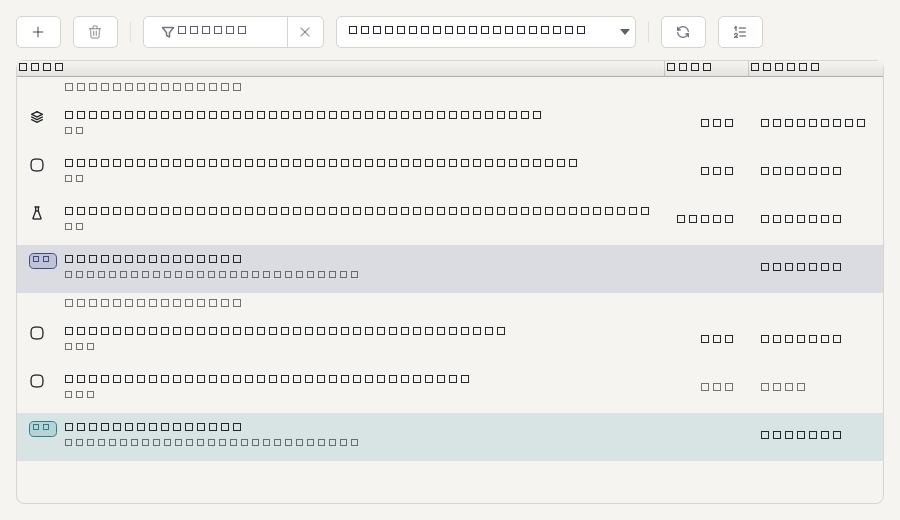
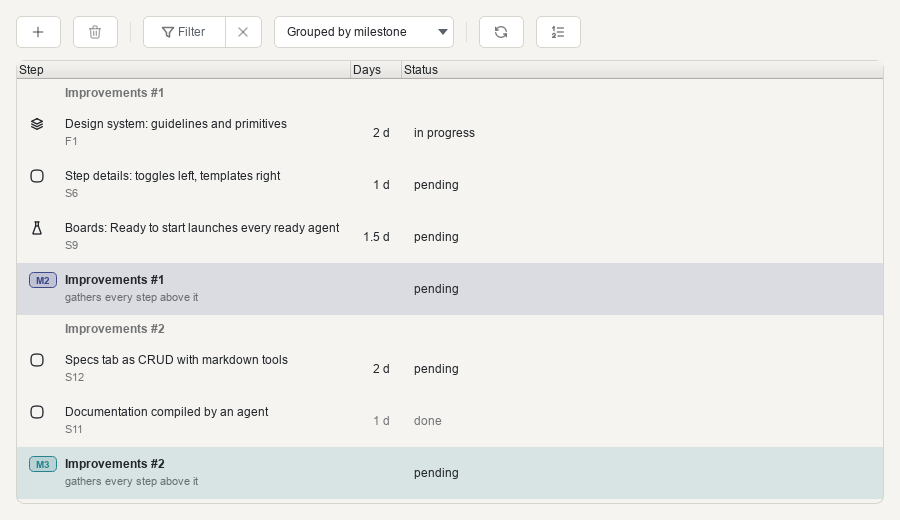
S17: an unreachable vault reads as no secret, and the Windows screenshots have fonts
Two things the frozen build found on Windows.

`dplanner checklist show` crashed from an SSH session: keyring's Credential
Manager backend lets an OSError through — a network logon has no credential
vault, and CredRead answers WinError 1312 "a specified logon session does not
exist" — while core/secrets.py caught only KeyringError. The checklist is the
surface whose job is to report a keychain that cannot be reached, and it died
reporting it. OSError joins KeyringError as "unavailable" in all three calls,
with a test that fakes the backend.

The first seventy-eight screenshots rendered on Windows were every glyph a tofu
box, with the layout, tones and icons all correct around them: Qt's offscreen
platform there loads no system fonts by itself. QT_QPA_FONTDIR=C:\Windows\Fonts
in both transports, and the six kept under docs/screenshots/s17-windows/on-windows
are re-rendered with it — real Windows text, the checklist and the design table
as the design system draws them.

Claude-Session: https://claude.ai/code/session_01GJhttG8r8Gza4YegQ22gom

diff --git a/src/dplanner/core/secrets.py b/src/dplanner/core/secrets.py
@@ -38,20 +38,29 @@ def _username(module_id: str, key: str) -> str:
     return f"{module_id}.{key}"
 
 
+# What a backend raises when the vault is not there for *this* session. keyring wraps most
+# of its failures in KeyringError, but the Windows Credential Manager backend lets the
+# OSError through: a network logon — an SSH session, a service — has no credential vault,
+# and CredRead answers WinError 1312 "a specified logon session does not exist". The
+# checklist's job is to report a keychain that cannot be reached, and it crashed reporting
+# it on the first Windows run. An unreachable vault reads as no secret, and nothing kept.
+_UNAVAILABLE = (keyring.errors.KeyringError, OSError)
+
+
 def get_secret(module_id: str, key: str) -> str | None:
     try:
         return keyring.get_password(_SERVICE, _username(module_id, key))
-    except keyring.errors.KeyringError:
+    except _UNAVAILABLE:
         return None
 
 
 def set_secret(module_id: str, key: str, value: str) -> None:
-    with contextlib.suppress(keyring.errors.KeyringError):
+    with contextlib.suppress(*_UNAVAILABLE):
         keyring.set_password(_SERVICE, _username(module_id, key), value)
 
 
 def delete_secret(module_id: str, key: str) -> None:
-    with contextlib.suppress(keyring.errors.KeyringError):
+    with contextlib.suppress(*_UNAVAILABLE):
         keyring.delete_password(_SERVICE, _username(module_id, key))
 
 

diff --git a/tests/core/test_secrets.py b/tests/core/test_secrets.py
@@ -39,3 +39,23 @@ def test_a_backend_that_cannot_even_be_asked_is_a_problem(monkeypatch):
     monkeypatch.setattr(keyring, "get_keyring", boom)
     problem = secrets.backend_problem()
     assert problem is not None and "RuntimeError" in problem
+
+
+def test_a_vault_this_session_cannot_reach_reads_as_no_secret(monkeypatch):
+    """The Windows Credential Manager backend raises OSError, not KeyringError, when the
+    logon session has no vault — a network logon such as SSH, WinError 1312. Every
+    surface that asks for a secret has to get "none" rather than a traceback, because the
+    checklist is the surface that reports exactly this."""
+    import keyring
+
+    from dplanner.core import secrets
+
+    def no_vault(*_args, **_kwargs):
+        raise OSError(1312, "A specified logon session does not exist")
+
+    monkeypatch.setattr(keyring, "get_password", no_vault)
+    monkeypatch.setattr(keyring, "set_password", no_vault)
+    monkeypatch.setattr(keyring, "delete_password", no_vault)
+    assert secrets.get_secret("llm", "openai") is None
+    secrets.set_secret("llm", "openai", "sk-x")  # Kept nowhere, and says nothing.
+    secrets.delete_secret("llm", "openai")

diff --git a/scripts/windows_check.py b/scripts/windows_check.py
@@ -57,6 +57,10 @@ $ProgressPreference = 'SilentlyContinue'
 [Console]::OutputEncoding = [Text.UTF8Encoding]::new()
 $env:PYTHONUTF8 = '1'; $env:PYTHONIOENCODING = 'utf-8'
 $env:QT_QPA_PLATFORM = 'offscreen'
+# The offscreen platform on Windows loads no system fonts by itself: every glyph in the
+# first seventy-eight screenshots was a tofu box, with the layout, the tones and the icons
+# all correct around it. Pointing it at the system font directory is the documented fix.
+$env:QT_QPA_FONTDIR = 'C:\Windows\Fonts'
 $env:TEMP = 'C:\t'; $env:TMP = 'C:\t'
 $env:UV_PYTHON_INSTALL_DIR = 'C:\tools\uv\python'; $env:UV_CACHE_DIR = 'C:\tools\uv\cache'
 $env:Path = 'C:\tools\uv;C:\Program Files\Git\cmd;' + $env:Path
